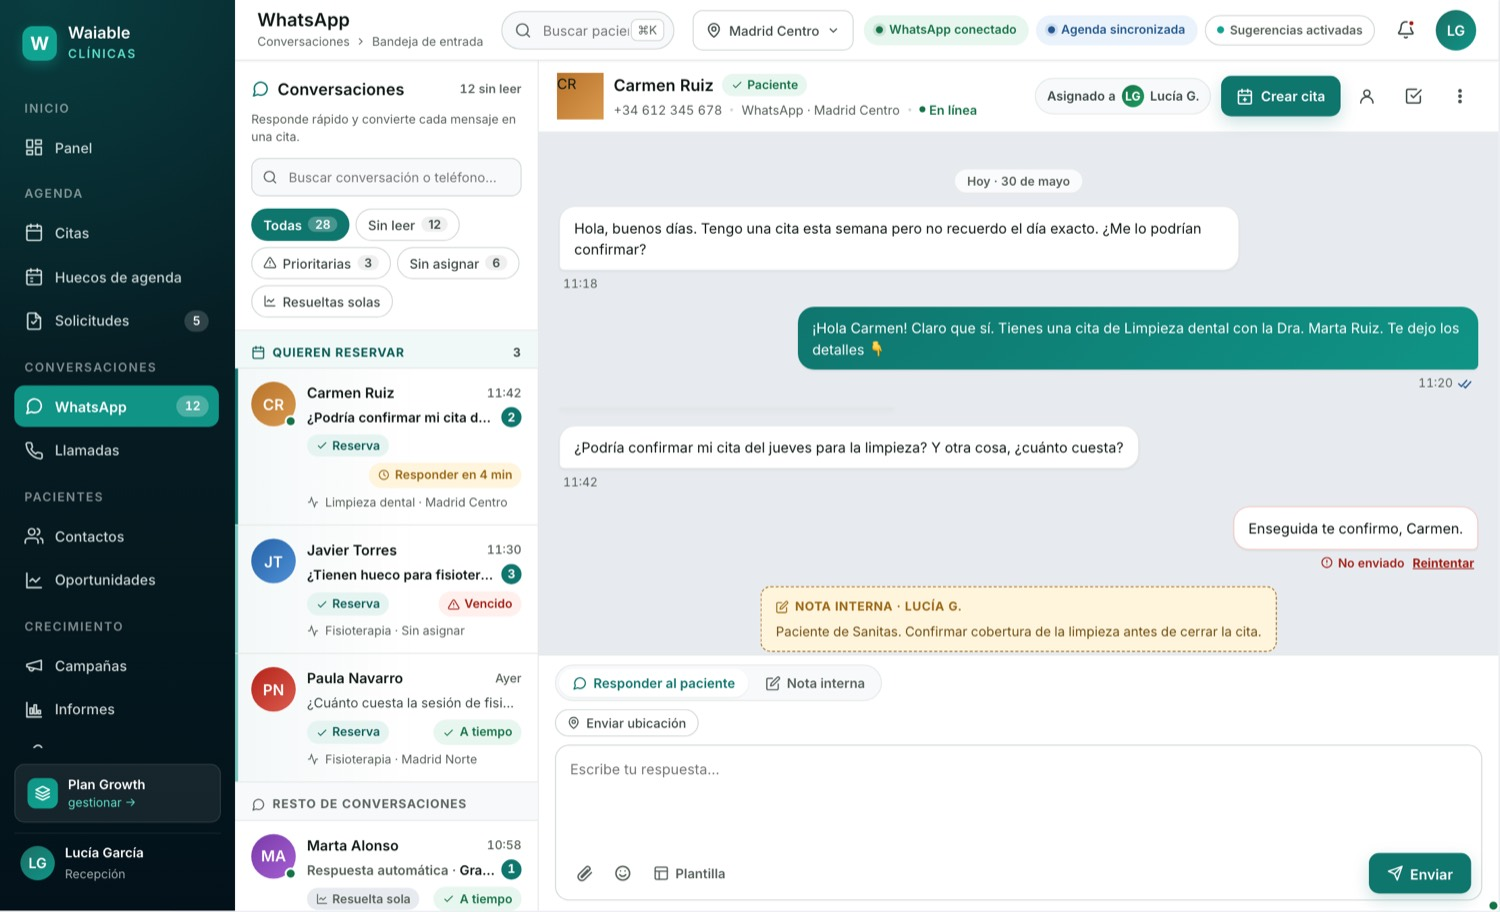
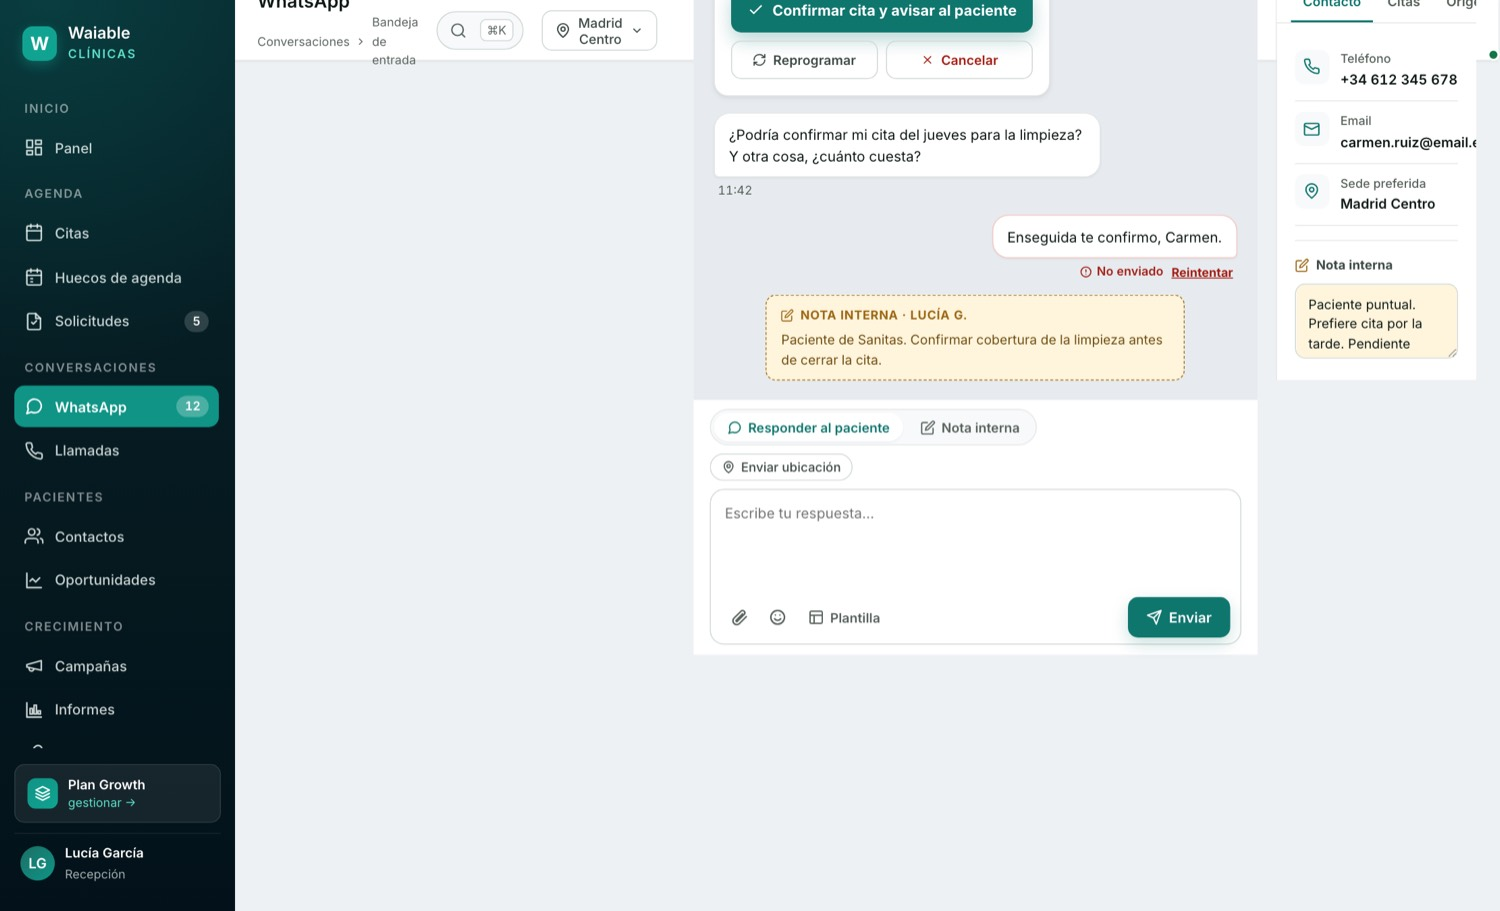
Inbox topbar: quitar chips de estado (WhatsApp/Agenda/Sugerencias) y ensanchar buscador

diff --git a/whatsapp/inbox.html b/whatsapp/inbox.html
@@ -541,52 +541,7 @@ a:focus-visible, button:focus-visible, input:focus-visible, textarea:focus-visib
           <span>Madrid Centro</span>
           <svg width="14" height="14" viewBox="0 0 24 24" fill="none" stroke="currentColor" stroke-width="2"><path d="m6 9 6 6 6-6"/></svg>
         </button>
-        <div class="status-chips">
-          <div class="chip-st ok" aria-label="WhatsApp conectado"><span class="dot"></span><span>WhatsApp conectado</span></div>
-          <div class="chip-st info" aria-label="Agenda sincronizada"><span class="dot"></span><span>Agenda sincronizada</span></div>
-          <button class="chip-st muted" aria-label="Las respuestas automáticas solo se sugieren; tú decides cuándo enviarlas">
-            <span class="dot"></span>
-            <span>Sugerencias activadas</span>
-          </button>
-        </div>
-        <button class="icon-btn has-dot" aria-label="Notificaciones (1 nueva)"><svg width="19" height="19" viewBox="0 0 24 24" fill="none" stroke="currentColor" stroke-width="2" stroke-linecap="round" stroke-linejoin="round"><path d="M10.268 21a2 2 0 0 0 3.464 0"/><path d="M3.262 15.326A1 1 0 0 0 4 17h16a1 1 0 0 0 .74-1.673C19.41 13.956 18 12.499 18 8A6 6 0 0 0 6 8c0 4.499-1.411 5.956-2.738 7.326"/></svg><span class="notif-dot"></span></button>
-        <button class="tb-av" aria-label="Mi cuenta: Lucía García">LG</button>
       </div>
-    </header>
-
-    <!-- INBOX -->
-    <div class="inbox panel-collapsed" id="inboxGrid">
-
-      <!-- ========== COLUMN 1: CONVERSATION LIST ========== -->
-      <section class="col-list" aria-label="Lista de conversaciones">
-        <div class="list-head">
-          <div class="lh-top">
-            <h2>
-              <svg width="18" height="18" viewBox="0 0 24 24" fill="none" stroke="var(--primary)" stroke-width="2" stroke-linecap="round" stroke-linejoin="round"><path d="M21 11.5a8.38 8.38 0 0 1-.9 3.8 8.5 8.5 0 0 1-7.6 4.7 8.38 8.38 0 0 1-3.8-.9L3 21l1.9-5.7a8.38 8.38 0 0 1-.9-3.8 8.5 8.5 0 0 1 4.7-7.6 8.38 8.38 0 0 1 3.8-.9h.5a8.48 8.48 0 0 1 8 8z"/></svg>
-              Conversaciones
-            </h2>
-            <span class="lh-count">12 sin leer</span>
-          </div>
-          <p class="lh-lead">Responde rápido y convierte cada mensaje en una cita.</p>
-          <div class="search-mini">
-            <svg class="sm-ico" width="15" height="15" viewBox="0 0 24 24" fill="none" stroke="currentColor" stroke-width="2" stroke-linecap="round"><circle cx="11" cy="11" r="8"/><path d="m21 21-4.3-4.3"/></svg>
-            <label for="convSearch" class="sr-only">Buscar conversación o teléfono</label>
-            <input id="convSearch" type="text" placeholder="Buscar conversación o teléfono…">
-          </div>
-          <div class="filters" role="group" aria-label="Filtros de conversaciones">
-            <button class="f-chip" aria-pressed="true">Todas <span class="fc-num">28</span></button>
-            <button class="f-chip" aria-pressed="false">Sin leer <span class="fc-num">12</span></button>
-            <button class="f-chip" aria-pressed="false">
-              <svg width="13" height="13" viewBox="0 0 24 24" fill="none" stroke="currentColor" stroke-width="2" stroke-linecap="round" stroke-linejoin="round"><path d="M10.29 3.86 1.82 18a2 2 0 0 0 1.71 3h16.94a2 2 0 0 0 1.71-3L13.71 3.86a2 2 0 0 0-3.42 0z"/><path d="M12 9v4M12 17h.01"/></svg>
-              Prioritarias <span class="fc-num">3</span>
-            </button>
-            <button class="f-chip" aria-pressed="false">Sin asignar <span class="fc-num">6</span></button>
-            <button class="f-chip" aria-pressed="false">
-              <svg width="13" height="13" viewBox="0 0 24 24" fill="none" stroke="currentColor" stroke-width="2" stroke-linecap="round" stroke-linejoin="round"><path d="M3 3v18h18"/><path d="m19 9-5 5-4-4-3 3"/></svg>
-              Resueltas solas
-            </button>
-          </div>
-        </div>
 
         <div class="conv-scroll">
 
